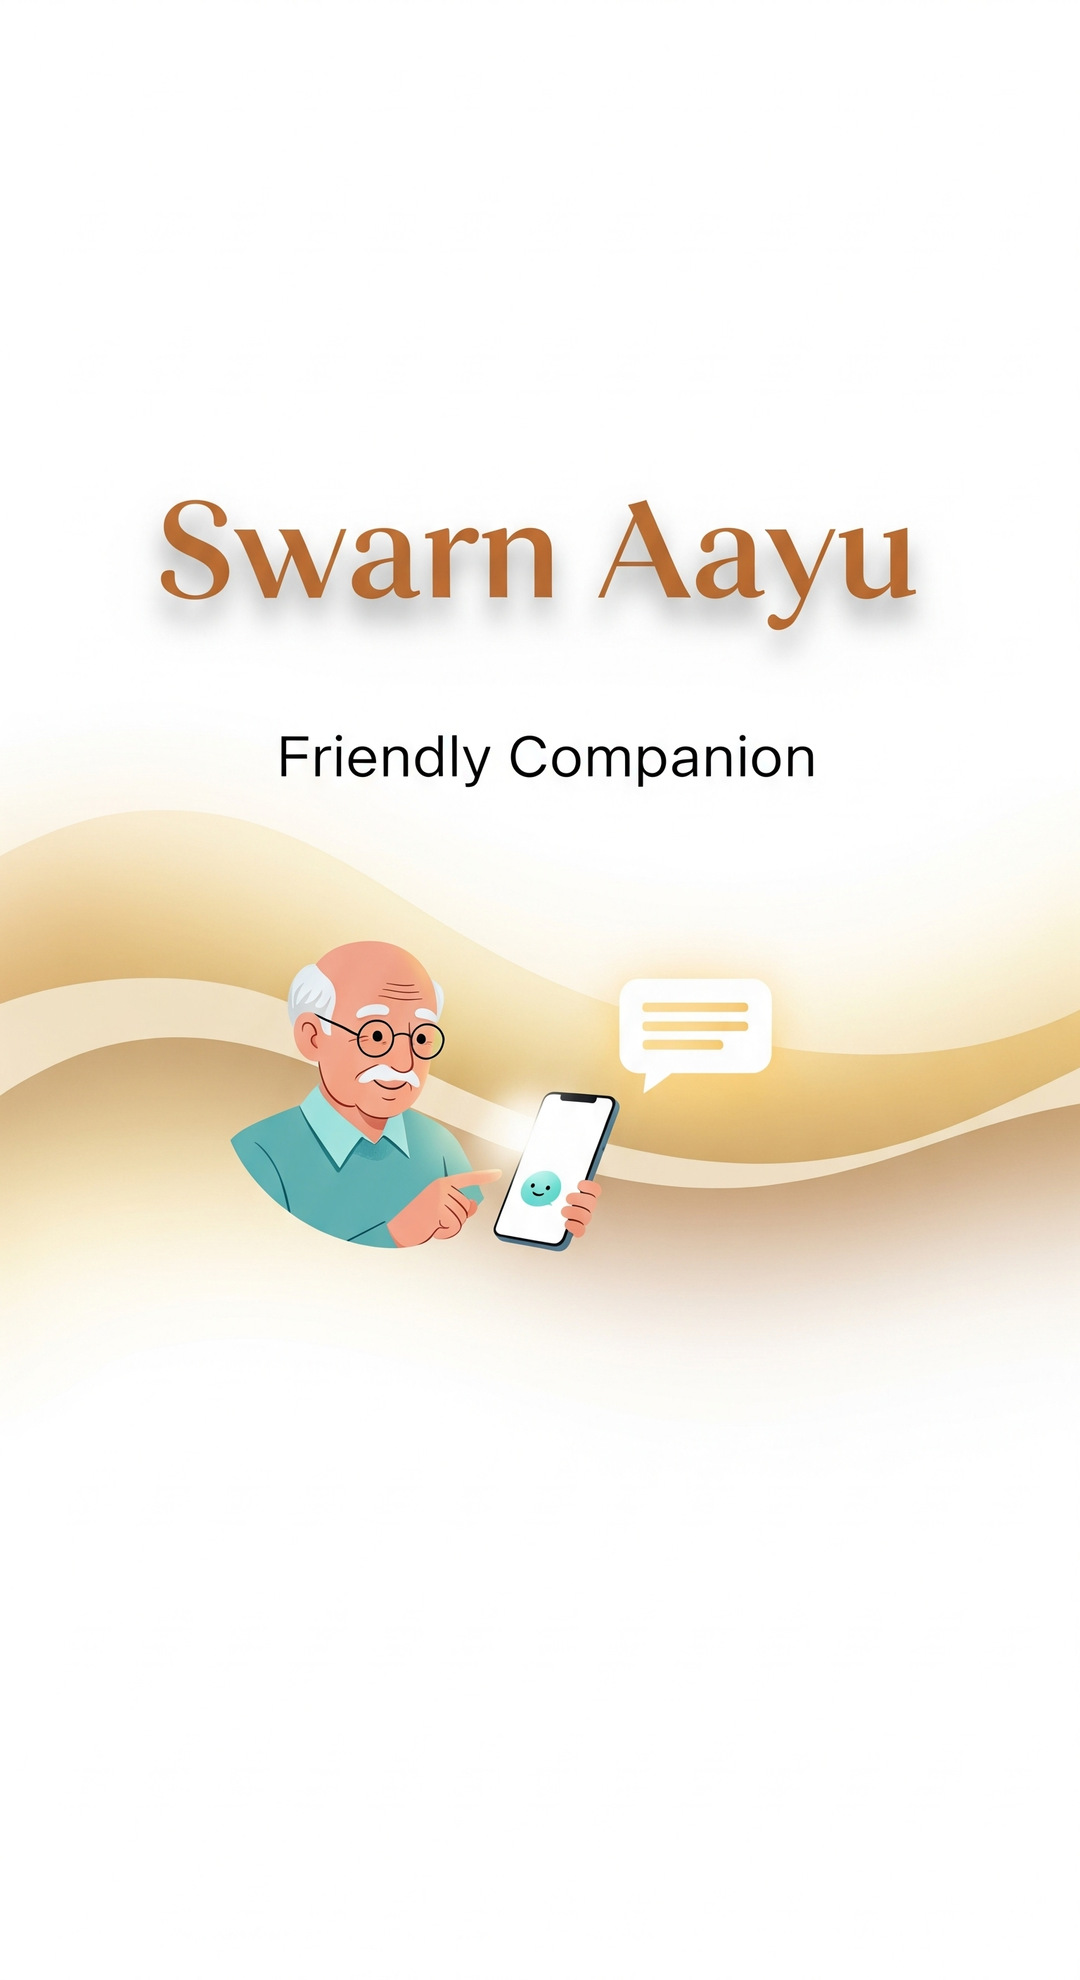
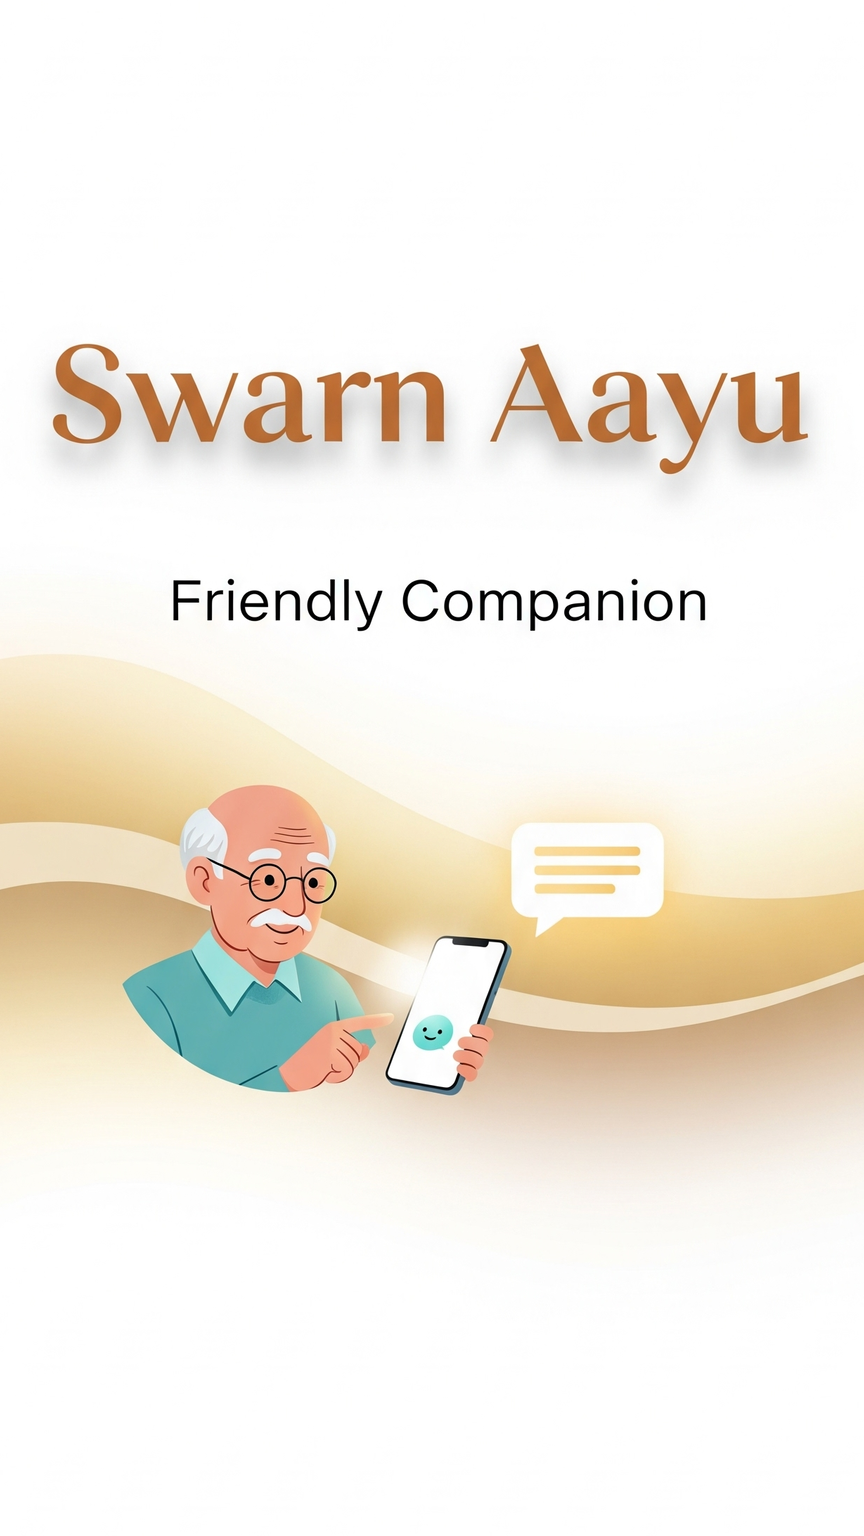
splash change

Changed region(s): [[0.0, 0.375, 1.0, 0.7812], [0.0625, 0.2188, 0.5312, 0.3125], [0.5625, 0.2188, 0.9375, 0.3438]]

diff --git a/app.config.js b/app.config.js
@@ -13,7 +13,7 @@ export default {
 
     splash: {
       image: "./assets/images/aayu.png",
-      resizeMode: "cover",
+      resizeMode: "contain",
       backgroundColor: "#000000",
     },
 
